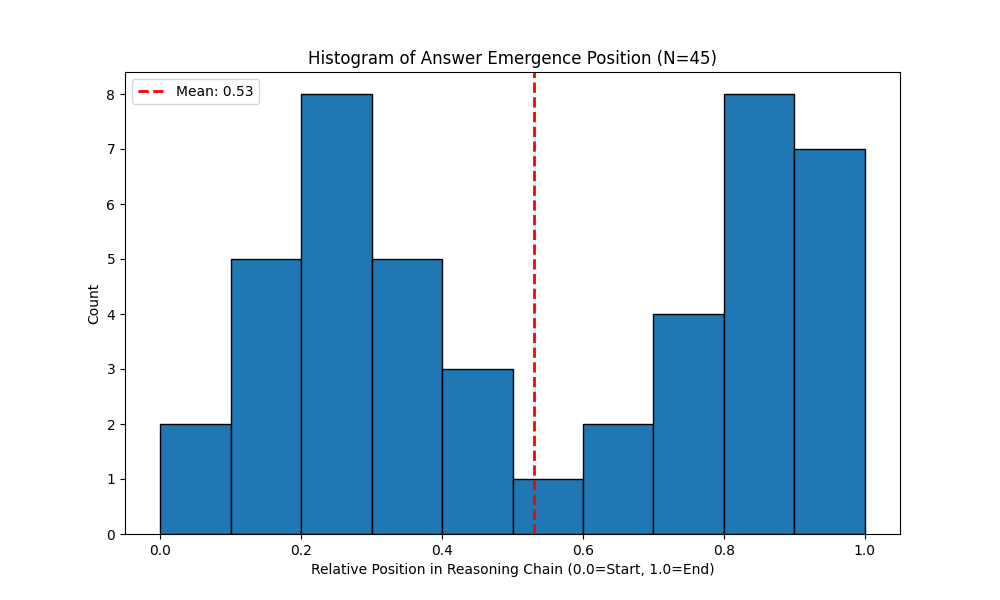
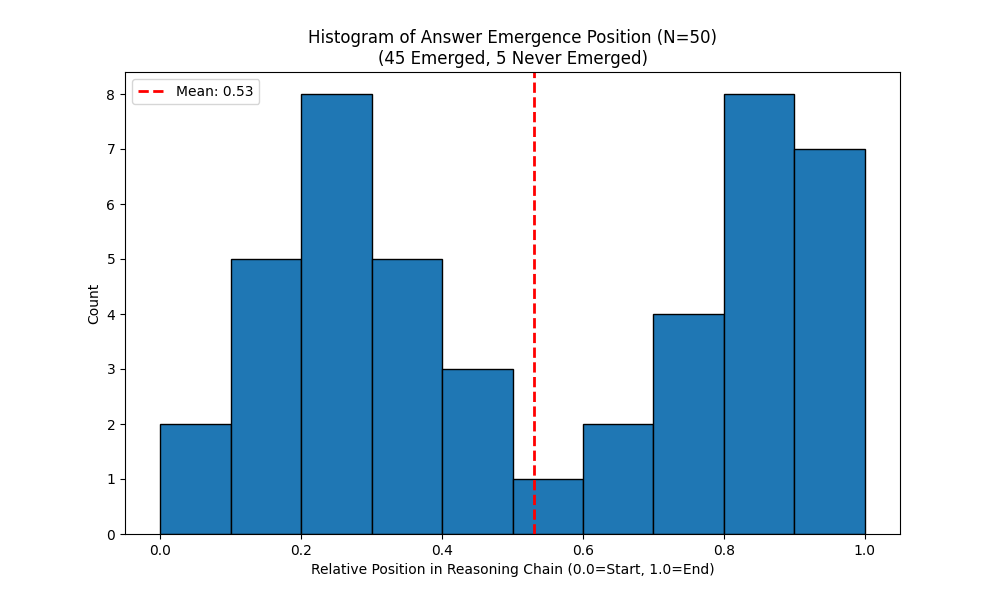
Fix emergence histogram title: explicitly state N=50 (45 Emerged, 5 Never).

Changed region(s): [[0.31, 0.03, 0.713, 0.12]]

diff --git a/src/aggregate_stats.py b/src/aggregate_stats.py
@@ -2,6 +2,7 @@
 import json
 import numpy as np
 import matplotlib.pyplot as plt
+import os
 
 def compute_aggregate_stats(input_file="results/analysis_results_phase2.json"):
     try:
@@ -87,7 +88,11 @@ def compute_aggregate_stats(input_file="results/analysis_results_phase2.json"):
         # Plot Histogram
         plt.figure(figsize=(10, 6))
         plt.hist(emergence_positions, bins=10, range=(0, 1), edgecolor='black')
-        plt.title(f"Histogram of Answer Emergence Position (N={len(emergence_positions)})")
+        
+        total_samples = len(samples)
+        never_emerged_count = total_samples - len(emergence_positions)
+        
+        plt.title(f"Histogram of Answer Emergence Position (N={total_samples})\n({len(emergence_positions)} Emerged, {never_emerged_count} Never Emerged)")
         plt.xlabel("Relative Position in Reasoning Chain (0.0=Start, 1.0=End)")
         plt.ylabel("Count")
         plt.axvline(avg_pos, color='red', linestyle='dashed', linewidth=2, label=f'Mean: {avg_pos:.2f}')
